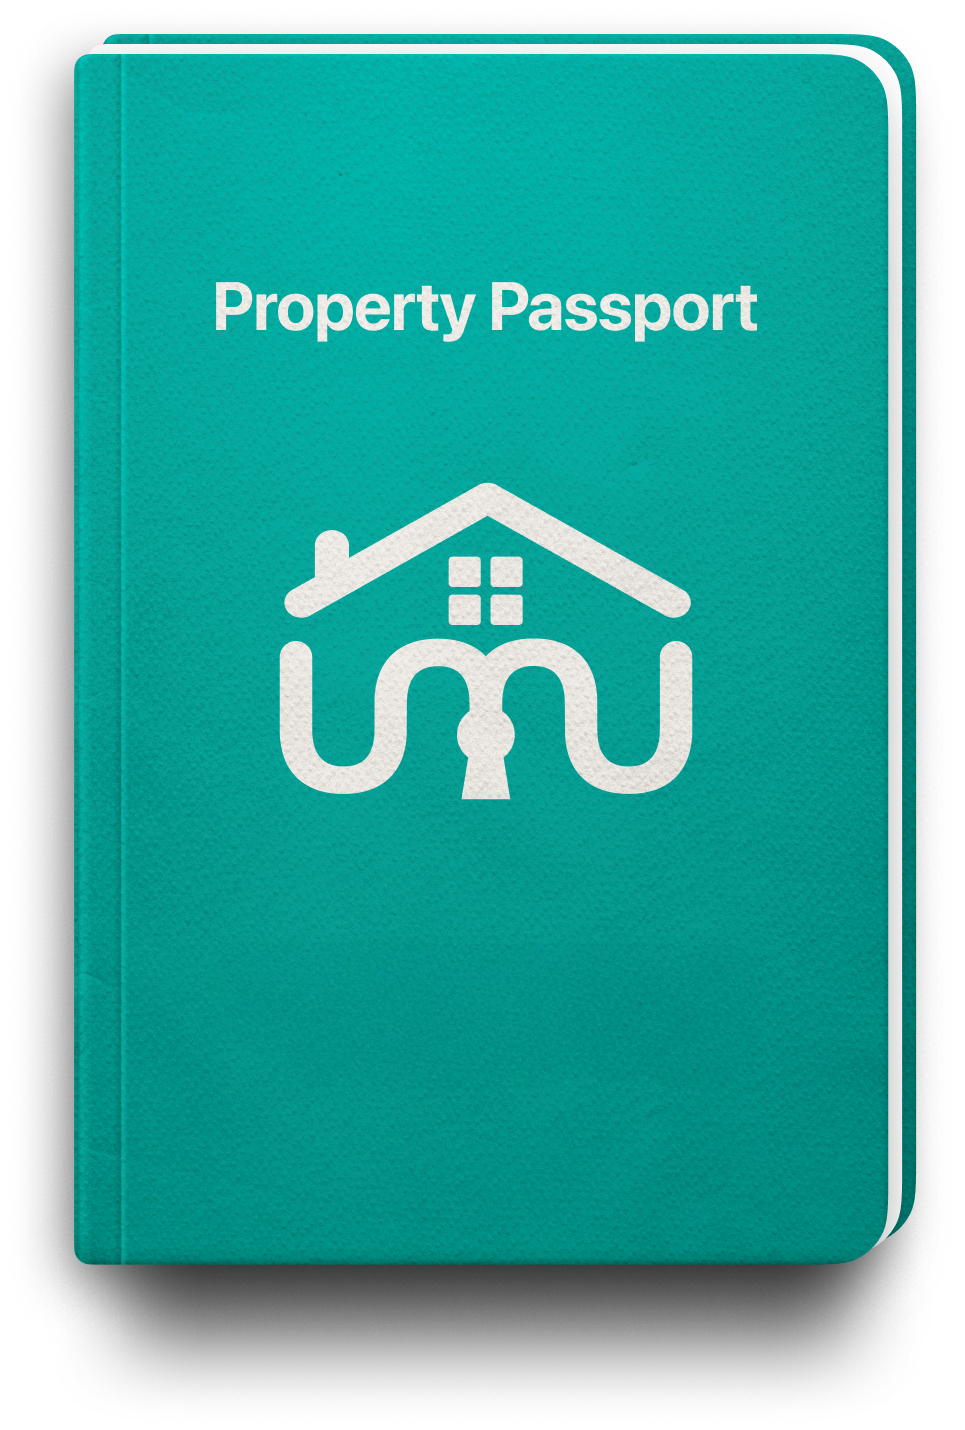
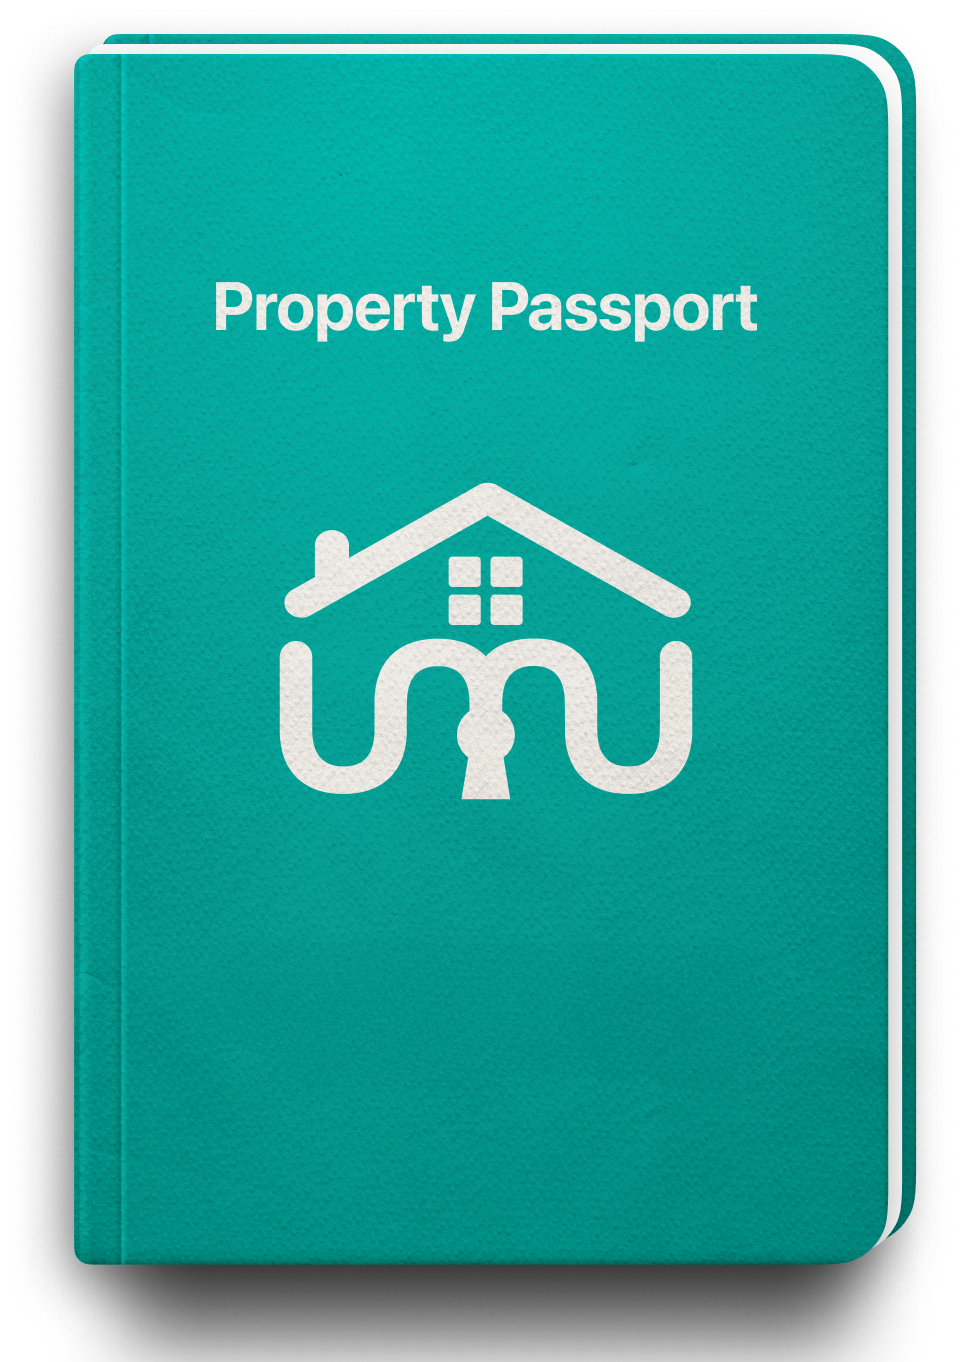
passport image fix

diff --git a/pages/dashboard.vue b/pages/dashboard.vue
@@ -519,7 +519,7 @@ const viewProperty = (id: string) => {
 /* Passport thumbnail in action card */
 .passport-thumb-wrap {
   width: 100px;
-  height: 100px;
+  height: 90px;
   flex-shrink: 0;
   overflow: hidden;
   border-radius: 6px;
@@ -529,9 +529,9 @@ const viewProperty = (id: string) => {
 .passport-thumb-inner {
   position: absolute;
   top: 0;
-  left: 0;
+  left: 50%;
   width: 360px;
-  transform: scale(0.178);
+  transform: scale(0.178) translateX(-50%);
   transform-origin: top left;
 }
 